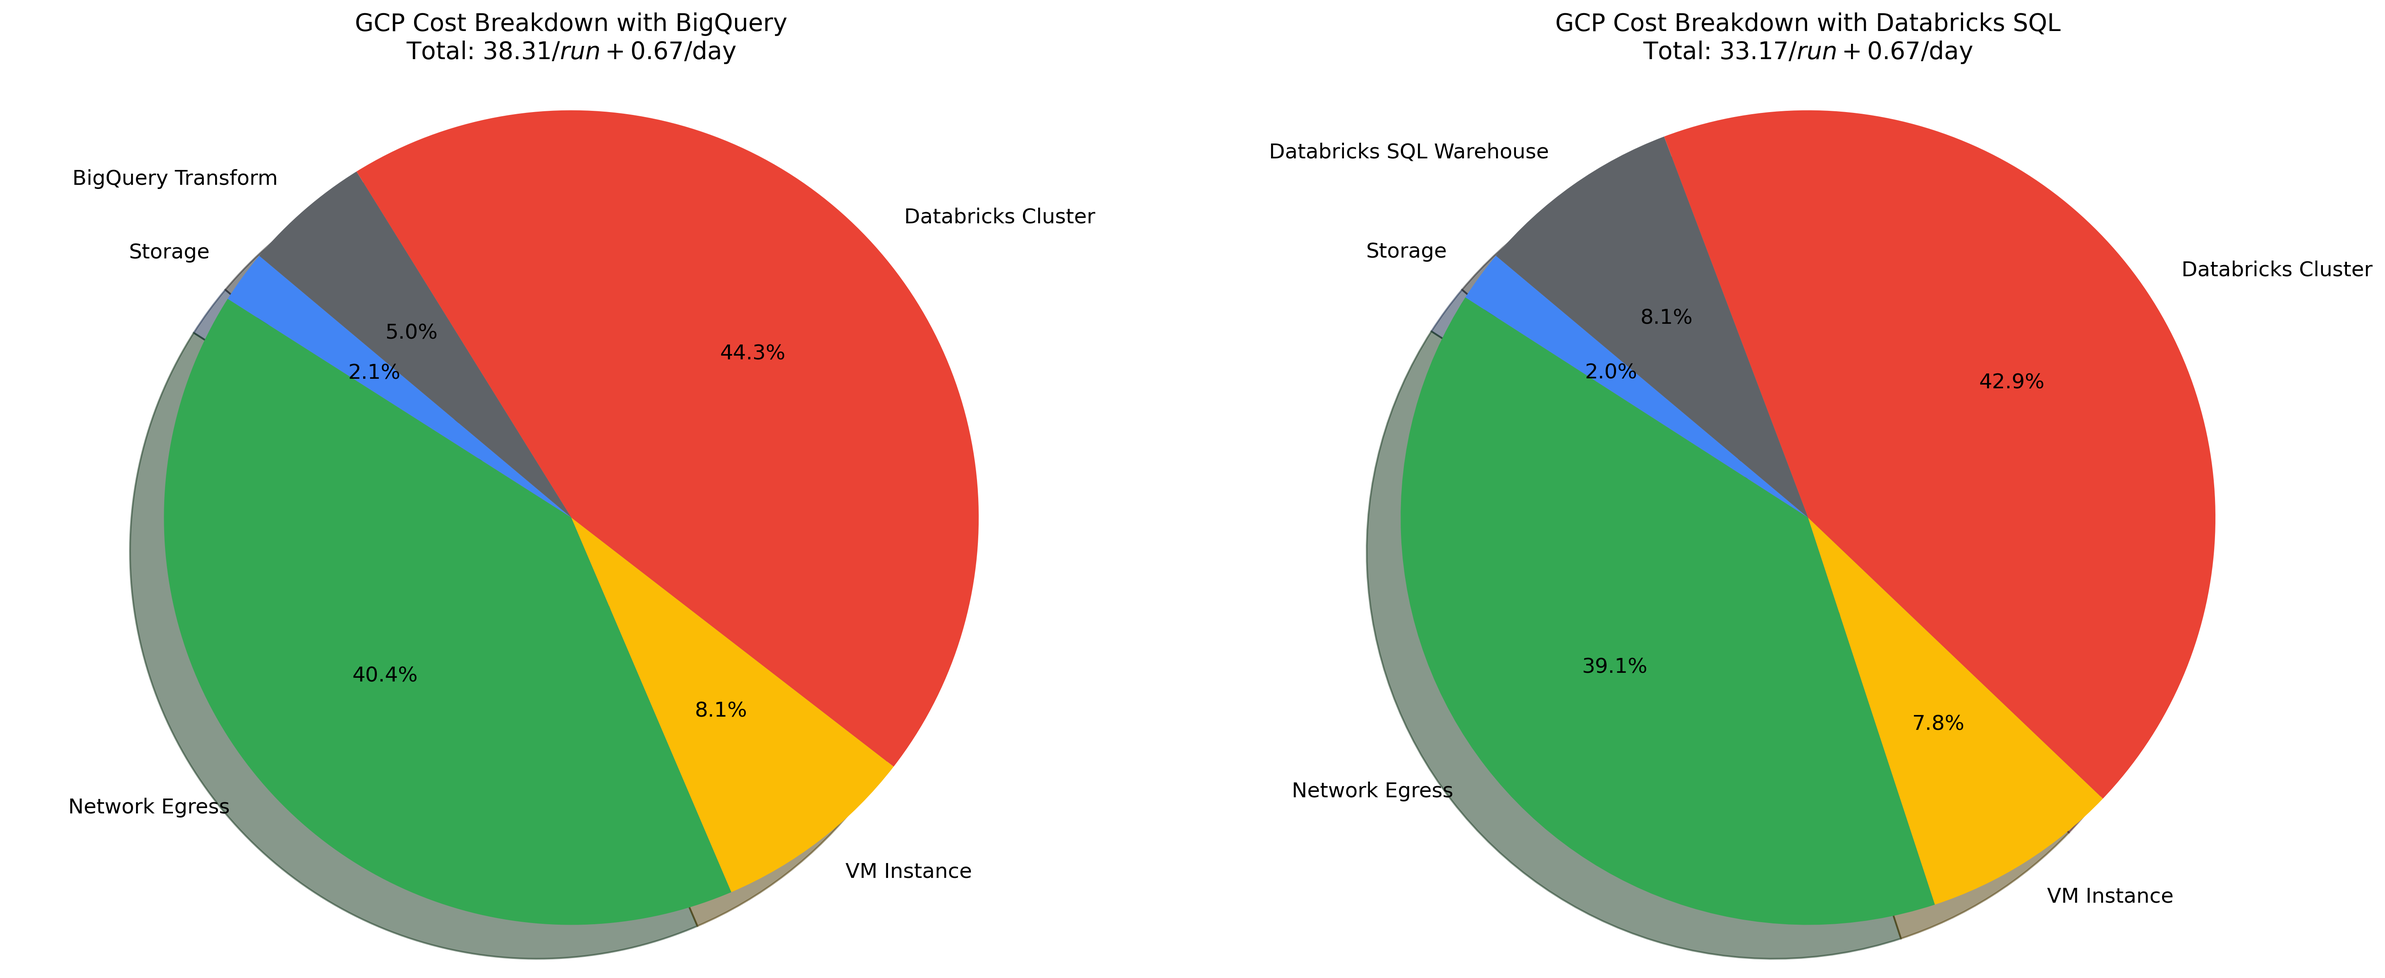
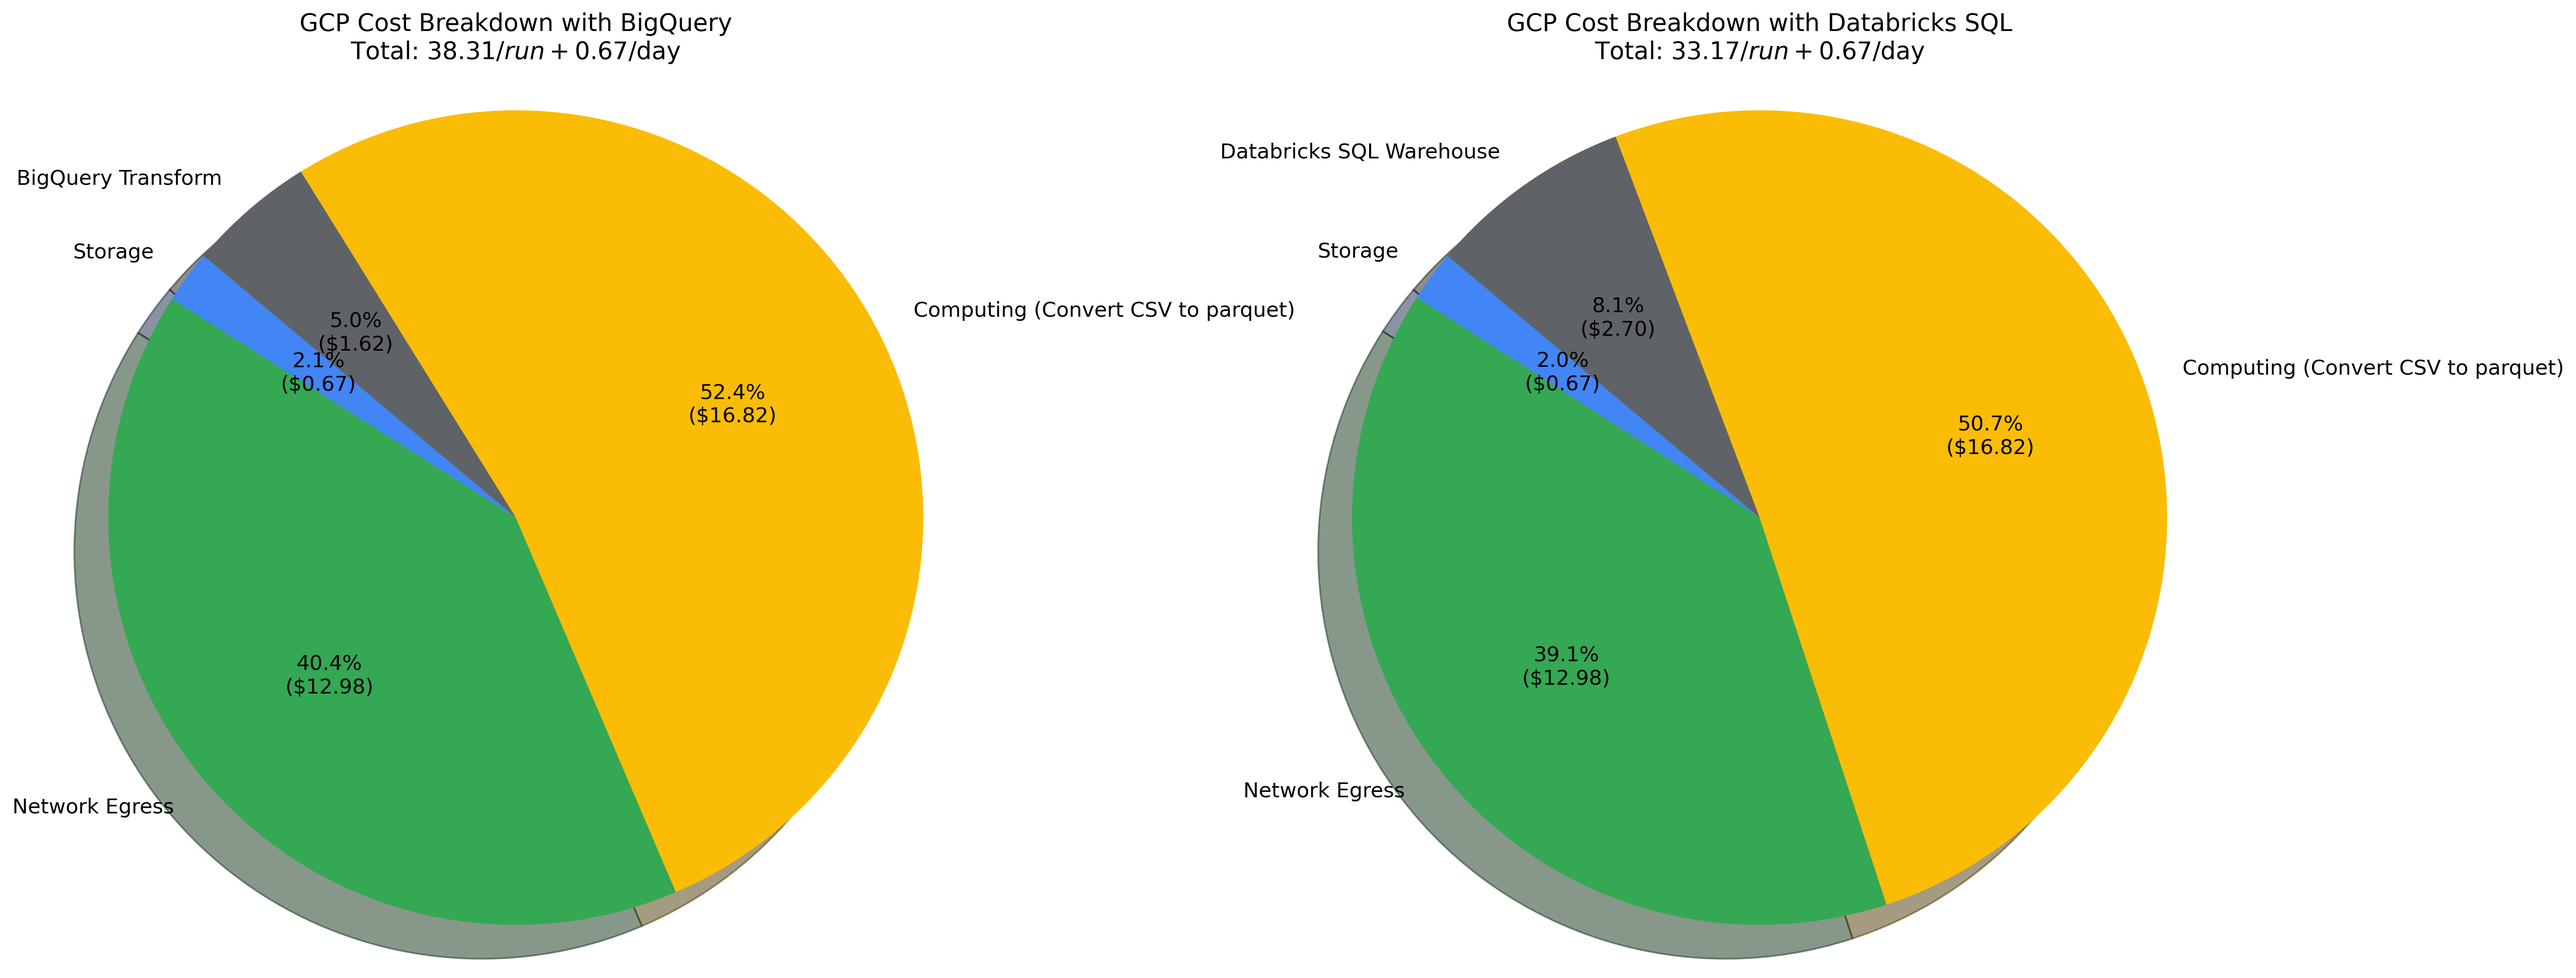
update README.md: correct part in pie chart comparison

diff --git a/create_cost_performance_charts.py b/create_cost_performance_charts.py
@@ -53,28 +53,60 @@ gcp_materialize = 1.05  # Materialize (1min 3s)
 azure_total_time = azure_convert + azure_transform + azure_materialize
 gcp_total_time = gcp_convert + gcp_transform + gcp_materialize
 
-# Create cost comparison pie chart (excluding network/egress costs)
-plt.figure(figsize=(10, 6))
-labels = ['Azure', 'GCP']
-sizes = [azure_total, gcp_total]
-colors = ['#0078D4', '#EA4335']  # Azure blue, Google red
-explode = (0.1, 0)  # explode Azure slice
+# Custom autopct function to show both percentage and value
+def make_autopct(values):
+    def my_autopct(pct):
+        total = sum(values)
+        val = pct * total / 100.0
+        return '{p:.1f}%\n(${v:.2f})'.format(p=pct, v=val)
+    return my_autopct
 
-plt.pie(sizes, explode=explode, labels=labels, colors=colors, autopct='%1.1f%%',
+# Calculate total costs for GCP with Databricks SQL
+gcp_total_databricks = gcp_storage + gcp_compute_vm + gcp_compute_databricks + gcp_transform_databricks
+
+# Create cost comparison pie charts (excluding network/egress costs) - side by side
+plt.figure(figsize=(20, 8))
+
+# First subplot - Azure vs GCP with BigQuery
+plt.subplot(1, 2, 1)
+labels_bigquery = ['Azure', 'GCP with BigQuery']
+sizes_bigquery = [azure_total, gcp_total]
+colors_bigquery = ['#0078D4', '#EA4335']  # Azure blue, Google red
+explode_bigquery = (0.1, 0)  # explode Azure slice
+
+plt.pie(sizes_bigquery, explode=explode_bigquery, labels=labels_bigquery, colors=colors_bigquery, 
+        autopct=make_autopct(sizes_bigquery),
         shadow=True, startangle=140, textprops={'fontsize': 14})
-plt.axis('equal')  # Equal aspect ratio ensures that pie is drawn as a circle
-plt.title('Cost Comparison: Azure vs GCP (Total USD per Run, Excluding Network Costs)', fontsize=16)
+plt.axis('equal')
+plt.title('Cost Comparison: Azure vs GCP with BigQuery', fontsize=14)
+
+# Second subplot - Azure vs GCP with Databricks SQL
+plt.subplot(1, 2, 2)
+labels_databricks = ['Azure', 'GCP with Databricks SQL']
+sizes_databricks = [azure_total, gcp_total_databricks]
+colors_databricks = ['#0078D4', '#DB4437']  # Azure blue, Google dark red
+explode_databricks = (0.1, 0)  # explode Azure slice
+
+plt.pie(sizes_databricks, explode=explode_databricks, labels=labels_databricks, colors=colors_databricks, 
+        autopct=make_autopct(sizes_databricks),
+        shadow=True, startangle=140, textprops={'fontsize': 14})
+plt.axis('equal')
+plt.title('Cost Comparison: Azure vs GCP with Databricks SQL', fontsize=14)
+
 plt.tight_layout()
 plt.savefig('images/comparison/cost-comparison-pie.png', dpi=300, bbox_inches='tight')
 plt.close()
 
 # Create detailed cost breakdown for Azure
 plt.figure(figsize=(10, 6))
-azure_labels = ['Storage', 'Network', 'VM Instance', 'Databricks Cluster', 'Databricks SQL Warehouse']
-azure_sizes = [azure_storage, azure_network, azure_compute_vm, azure_compute_databricks, azure_transform]
-azure_colors = ['#0078D4', '#50e6ff', '#81b0d2', '#243a5e', '#0063B1']
+# Combine VM Instance and Databricks Cluster into Computing (Convert CSV to parquet)
+azure_compute_convert = azure_compute_vm + azure_compute_databricks
+azure_labels = ['Storage', 'Network', 'Computing (Convert CSV to parquet)', 'Databricks SQL Warehouse']
+azure_sizes = [azure_storage, azure_network, azure_compute_convert, azure_transform]
+azure_colors = ['#0078D4', '#50e6ff', '#243a5e', '#0063B1']
 
-plt.pie(azure_sizes, labels=azure_labels, colors=azure_colors, autopct='%1.1f%%',
+plt.pie(azure_sizes, labels=azure_labels, colors=azure_colors, 
+        autopct=make_autopct(azure_sizes),
         shadow=True, startangle=140, textprops={'fontsize': 14})
 plt.axis('equal')
 plt.title('Azure Cost Breakdown\nTotal: $19.16/run + $1.39/day', fontsize=14)
@@ -87,22 +119,28 @@ plt.figure(figsize=(20, 8))
 
 # First subplot - GCP with BigQuery
 plt.subplot(1, 2, 1)
-gcp_bigquery_labels = ['Storage', 'Network Egress', 'VM Instance', 'Databricks Cluster', 'BigQuery Transform']
-gcp_bigquery_sizes = [gcp_storage, gcp_network, gcp_compute_vm, gcp_compute_databricks, gcp_transform]
-gcp_bigquery_colors = ['#4285F4', '#34A853', '#FBBC05', '#EA4335', '#5F6368']
+# Combine VM Instance and Databricks Cluster into Computing (Convert CSV to parquet)
+gcp_compute_convert = gcp_compute_vm + gcp_compute_databricks
+gcp_bigquery_labels = ['Storage', 'Network Egress', 'Computing (Convert CSV to parquet)', 'BigQuery Transform']
+gcp_bigquery_sizes = [gcp_storage, gcp_network, gcp_compute_convert, gcp_transform]
+gcp_bigquery_colors = ['#4285F4', '#34A853', '#FBBC05', '#5F6368']
 
-plt.pie(gcp_bigquery_sizes, labels=gcp_bigquery_labels, colors=gcp_bigquery_colors, autopct='%1.1f%%',
+plt.pie(gcp_bigquery_sizes, labels=gcp_bigquery_labels, colors=gcp_bigquery_colors, 
+        autopct=make_autopct(gcp_bigquery_sizes),
         shadow=True, startangle=140, textprops={'fontsize': 12})
 plt.axis('equal')
 plt.title('GCP Cost Breakdown with BigQuery\nTotal: $38.31/run + $0.67/day', fontsize=14)
 
 # Second subplot - GCP with Databricks SQL Warehouse
 plt.subplot(1, 2, 2)
-gcp_databricks_labels = ['Storage', 'Network Egress', 'VM Instance', 'Databricks Cluster', 'Databricks SQL Warehouse']
-gcp_databricks_sizes = [gcp_storage, gcp_network, gcp_compute_vm, gcp_compute_databricks, gcp_transform_databricks]
-gcp_databricks_colors = ['#4285F4', '#34A853', '#FBBC05', '#EA4335', '#5F6368']  # Using same color as BigQuery Transform
+# Combine VM Instance and Databricks Cluster into Computing (Convert CSV to parquet)
+gcp_compute_convert = gcp_compute_vm + gcp_compute_databricks
+gcp_databricks_labels = ['Storage', 'Network Egress', 'Computing (Convert CSV to parquet)', 'Databricks SQL Warehouse']
+gcp_databricks_sizes = [gcp_storage, gcp_network, gcp_compute_convert, gcp_transform_databricks]
+gcp_databricks_colors = ['#4285F4', '#34A853', '#FBBC05', '#5F6368']  # Using same color as BigQuery Transform
 
-plt.pie(gcp_databricks_sizes, labels=gcp_databricks_labels, colors=gcp_databricks_colors, autopct='%1.1f%%',
+plt.pie(gcp_databricks_sizes, labels=gcp_databricks_labels, colors=gcp_databricks_colors, 
+        autopct=make_autopct(gcp_databricks_sizes),
         shadow=True, startangle=140, textprops={'fontsize': 12})
 plt.axis('equal')
 plt.title('GCP Cost Breakdown with Databricks SQL\nTotal: $33.17/run + $0.67/day', fontsize=14)
@@ -112,8 +150,9 @@ plt.savefig('images/comparison/gcp-cost-breakdown.png', dpi=300, bbox_inches='ti
 plt.close()
 
 # Create performance comparison bar chart (total time)
-plt.figure(figsize=(10, 8))  # Increased height for more space
-x = np.arange(len(labels))
+plt.figure(figsize=(15, 8))  # Increased width and height for more space
+perf_labels = ['Azure', 'GCP']  # We only have performance data for GCP with BigQuery
+x = np.arange(len(perf_labels))
 width = 0.35
 
 # Use more distinct colors for better differentiation
@@ -122,7 +161,7 @@ bars = plt.bar(x, [azure_total_time, gcp_total_time], width, color=bar_colors)
 plt.xlabel('Cloud Provider', fontsize=14)
 plt.ylabel('Total Execution Time (Minutes)', fontsize=14)
 plt.title('Performance Comparison: Azure vs GCP (Total Minutes)', fontsize=16)
-plt.xticks(x, labels, fontsize=12)
+plt.xticks(x, perf_labels, fontsize=12)
 plt.yticks(fontsize=12)
 
 # Set y-axis limit to leave more room for labels

diff --git a/README.md b/README.md
@@ -63,13 +63,7 @@ This section provides visual representations of the performance and cost metrics
 
 ![Cost Comparison Pie Chart](images/comparison/cost-comparison-pie.png)
 
-Azure's total cost per run is significantly lower than GCP's when excluding network/egress costs, which can vary significantly based on implementation details.
-
-##### Transform Cost Comparison Across Platforms
-
-![Transform Cost Comparison](images/comparison/transform-cost-comparison.png)
-
-This chart compares the transform costs across BigQuery, Databricks, and Snowflake. Databricks SQL Warehouse offers the most cost-effective solution at $2.70/run on GCP and $2.13/run on Azure, while Snowflake has the highest transform cost at $30.00/run.
+This chart compares the total cost per run across different platforms, excluding network/egress costs. Azure offers the lowest cost at $19.16/run, while GCP costs vary depending on the transform option used: $38.31/run with BigQuery (left) or $33.17/run with Databricks SQL Warehouse (right).
 
 ##### Detailed Cost Breakdown by Provider
 
@@ -79,7 +73,13 @@ Azure's costs are primarily driven by compute resources, particularly the Databr
 
 ![GCP Cost Breakdown](images/comparison/gcp-cost-breakdown.png)
 
-GCP's cost structure is shown with two options: using BigQuery for transformations (left, $38.31/run) and using Databricks SQL Warehouse (right, $33.17/run). Both options show significant portions going to network egress and Databricks cluster, but differ in their transform costs.
+GCP's cost structure is shown with two options: using BigQuery for transformations (left, $38.31/run) and using Databricks SQL Warehouse (right, $33.17/run). Both options show significant portions going to network egress and computing (CSV to parquet conversion), but differ in their transform costs.
+
+##### Transform Cost Comparison Across Platforms
+
+![Transform Cost Comparison](images/comparison/transform-cost-comparison.png)
+
+This chart compares the transform costs across BigQuery, Databricks, and Snowflake. Databricks SQL Warehouse offers the most cost-effective solution at $2.70/run on GCP and $2.13/run on Azure, while Snowflake has the highest transform cost at $30.00/run.
 
 #### Performance Comparison Charts
 
